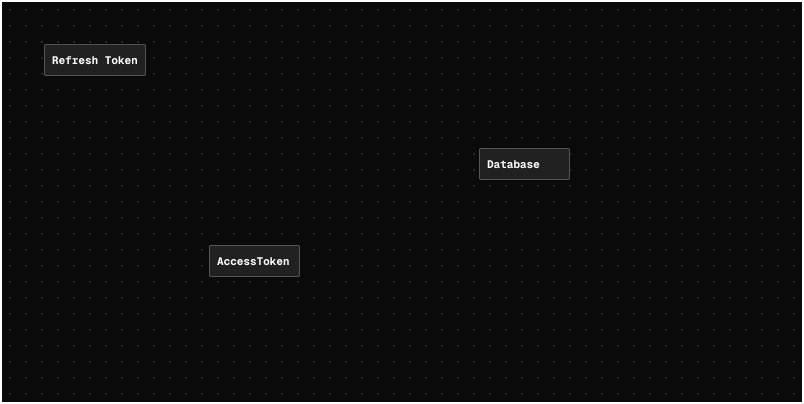
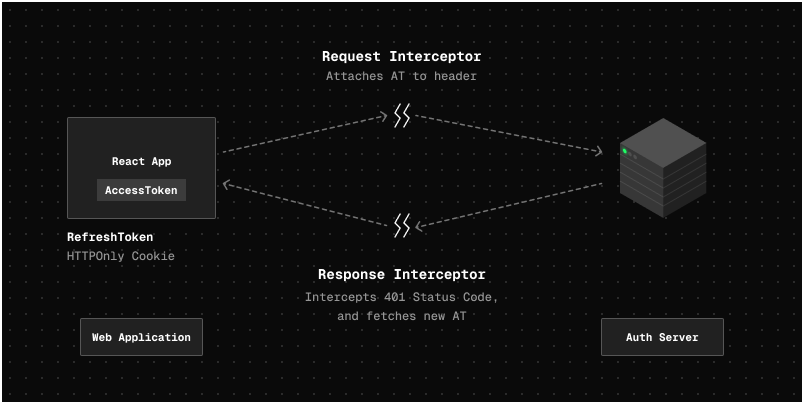
fixed blog article, and some ui changes

diff --git a/src/content.config.ts b/src/content.config.ts
@@ -10,6 +10,7 @@ const blog = defineCollection({
     published: z.boolean(),
     tags: z.array(z.string()),
     date: z.coerce.date(),
+    ogImage: z.string(),
   }),
 });
 

diff --git a/src/content/blog/implementing-refresh-token-rotation-to-secure-raven.md b/src/content/blog/implementing-refresh-token-rotation-to-secure-raven.md
@@ -1,8 +1,9 @@
 ---
 title: "Implementing Refresh Token Rotation to secure a web application."
 description: "Building a robust authentication system for my web app with Refresh Tokens and Access Tokens"
-date: "2025-12-12"
+date: "2025-12-18"
 tags: ["react", "typescript", "raven", "react", "typescript", "raven"]
+ogImage: "/images/refresh-token-rotation-og-image.png"
 published: true
 ---
 
